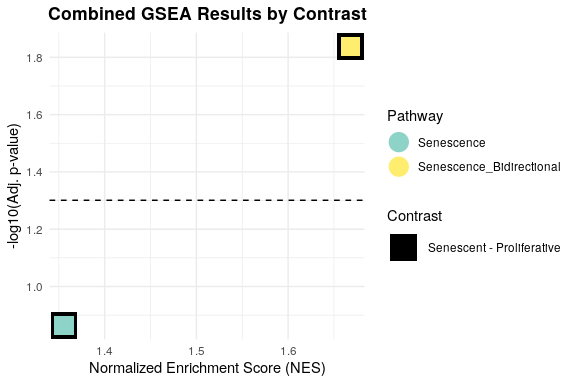
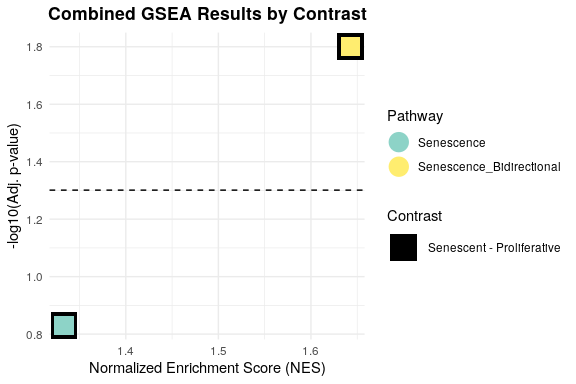
minor fix variable association

diff --git a/README.md b/README.md
@@ -713,7 +713,7 @@ and sequencing, and one defining the person that processed it.
 set.seed("123456")
 
 days <- sample(c(1:20),39, replace = T)
-person <- sample(c("John","Ana"),39, replace = T)
+person <- sample(c("John","Ana","Francisca"),39, replace = T)
 
 df_Scores_logmedian_Sen$person <- person
 df_Scores_logmedian_Sen$days <- days
@@ -950,8 +950,8 @@ GSEAresults
 #> $`Senescent - Proliferative`
 #>                     pathway       pval       padj   log2err        ES      NES
 #>                      <char>      <num>      <num>     <num>     <num>    <num>
-#> 1: Senescence_Bidirectional 0.01453348 0.01453348 0.3807304 0.7068136 1.667798
-#> 2:               Senescence 0.13684211 0.13684211 0.1446305 0.5844505 1.355523
+#> 1: Senescence_Bidirectional 0.01582105 0.01582105 0.3524879 0.7068136 1.642473
+#> 2:               Senescence 0.14797508 0.14797508 0.1412251 0.5844505 1.333081
 #>     size                         leadingEdge stat_used
 #>    <int>                              <list>    <char>
 #> 1:     7 LMNB1,MKI67,GLB1,CDKN1A,CDKN2A,CCL2         t
